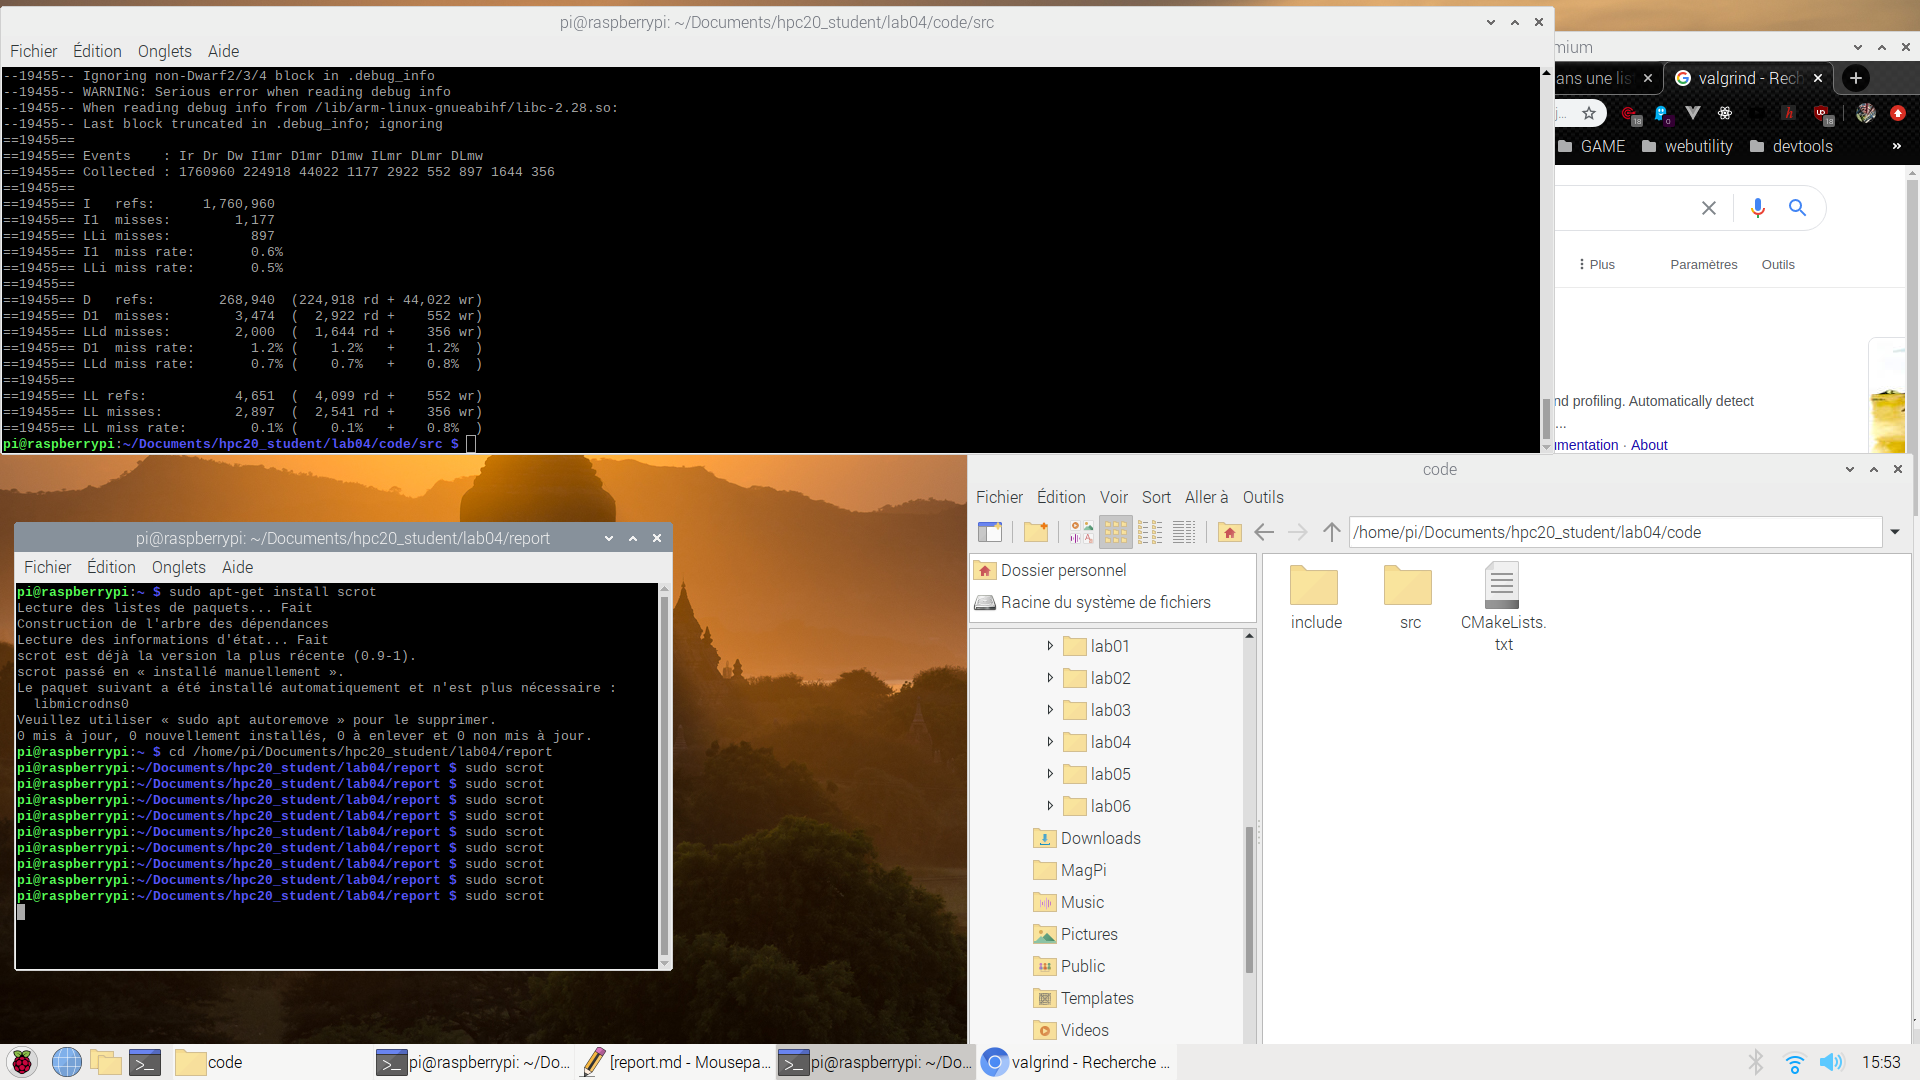
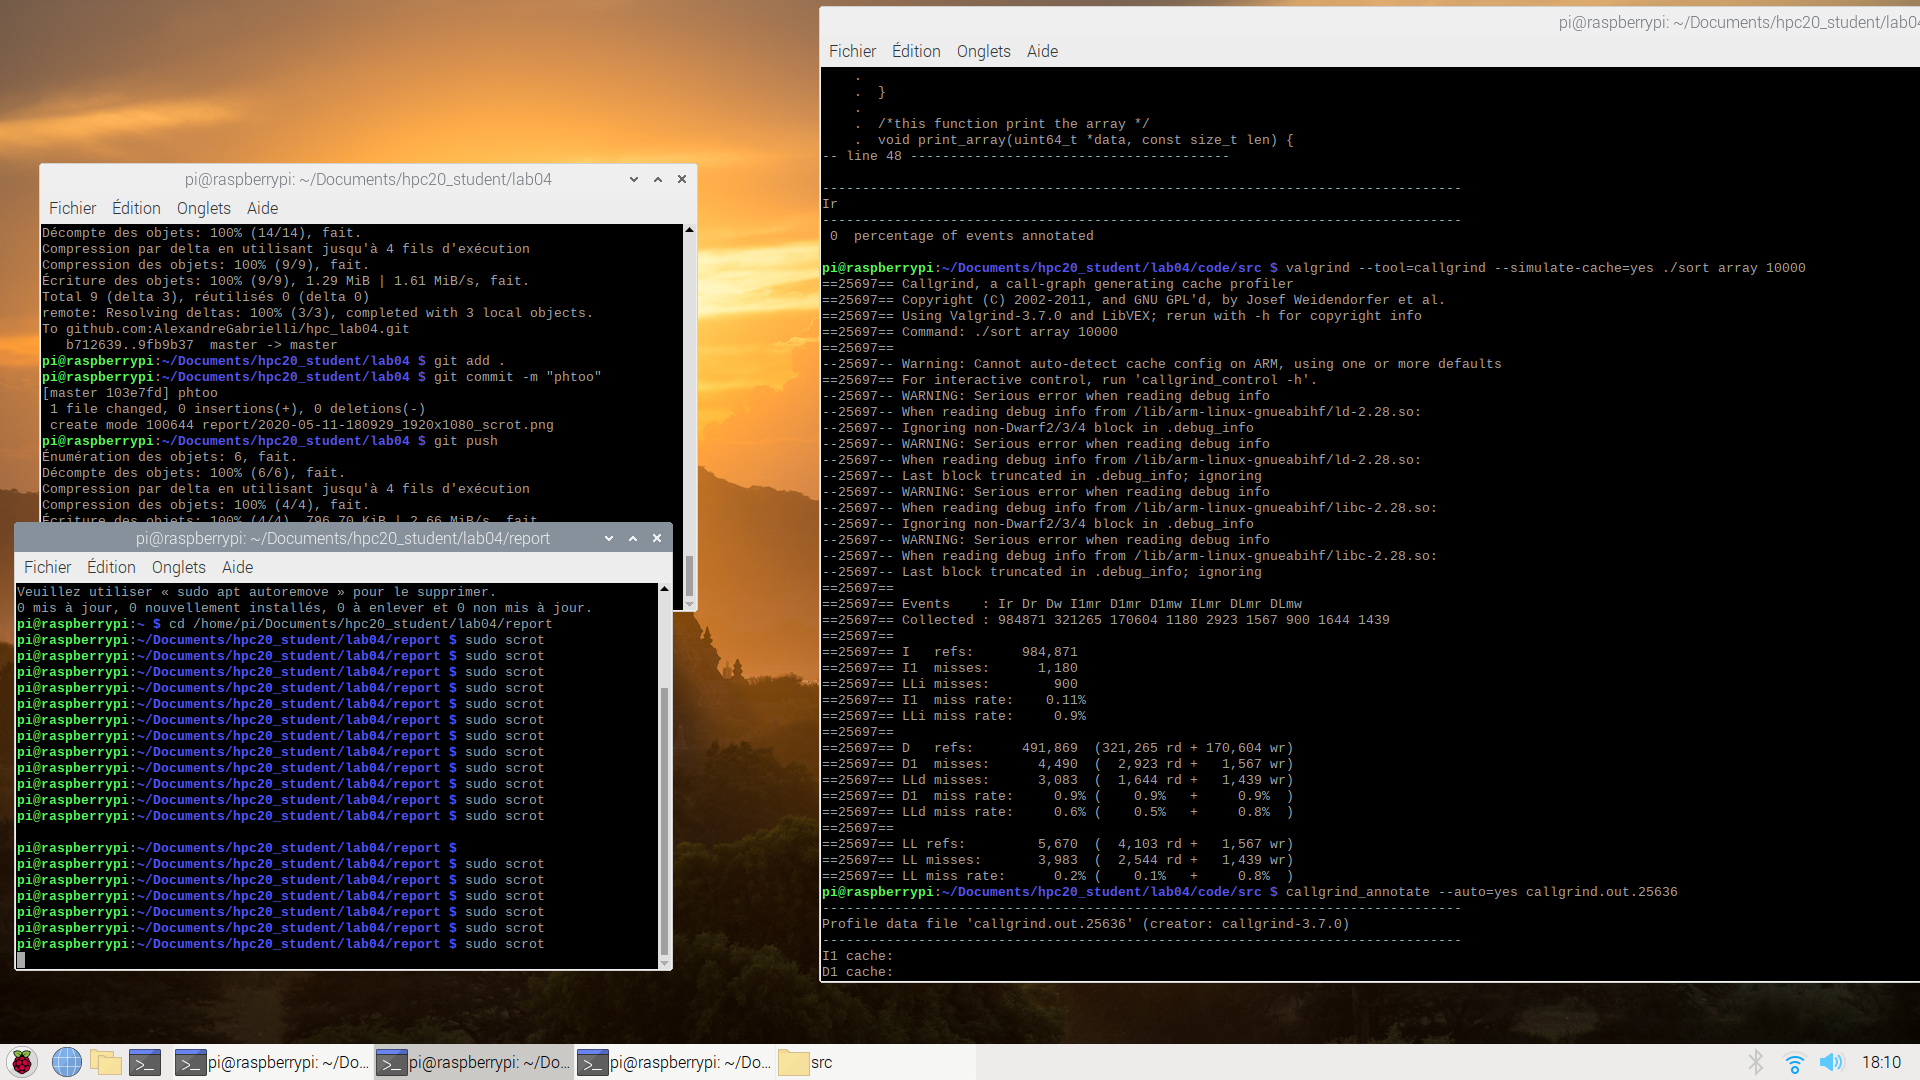
afsf

diff --git a/report/report.md b/report/report.md
@@ -238,3 +238,14 @@ on peut voir que le résultat est beaucoup plus satisfaisant:
 
 ## valgrind 
 
+## array
+
+ ![valgrind_array](C:\Users\Alexandre\Documents\cours\semestre_6\HPC\lab04\hpc_lab04\report\valgrind_array.png)
+
+![valgrind_array2](.\valgrind_array2.png)
+
+
+
+comme notre code d'array est plutôt simple on ne voit pas trop de problème qui apparait avec calgrind, il ne semble pas y avoir de goulet d'étranglement bien défini.
+
+## list 
